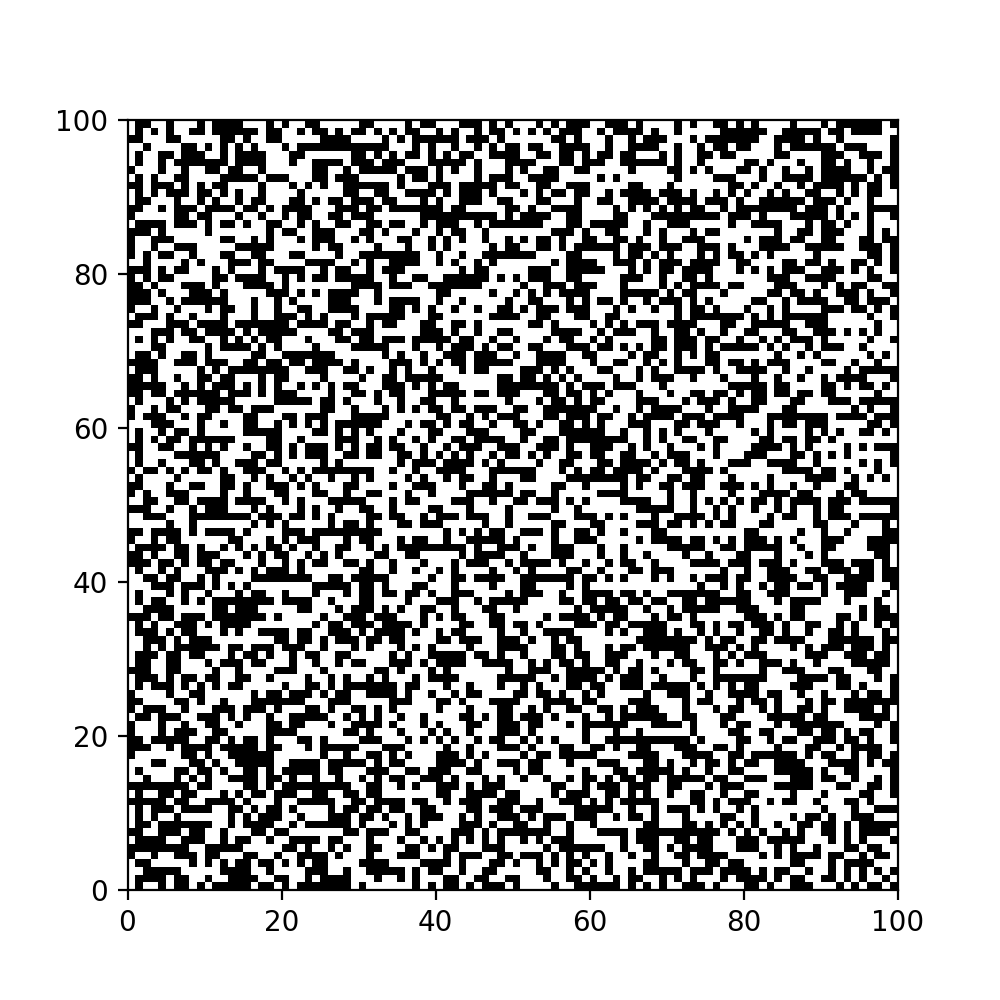
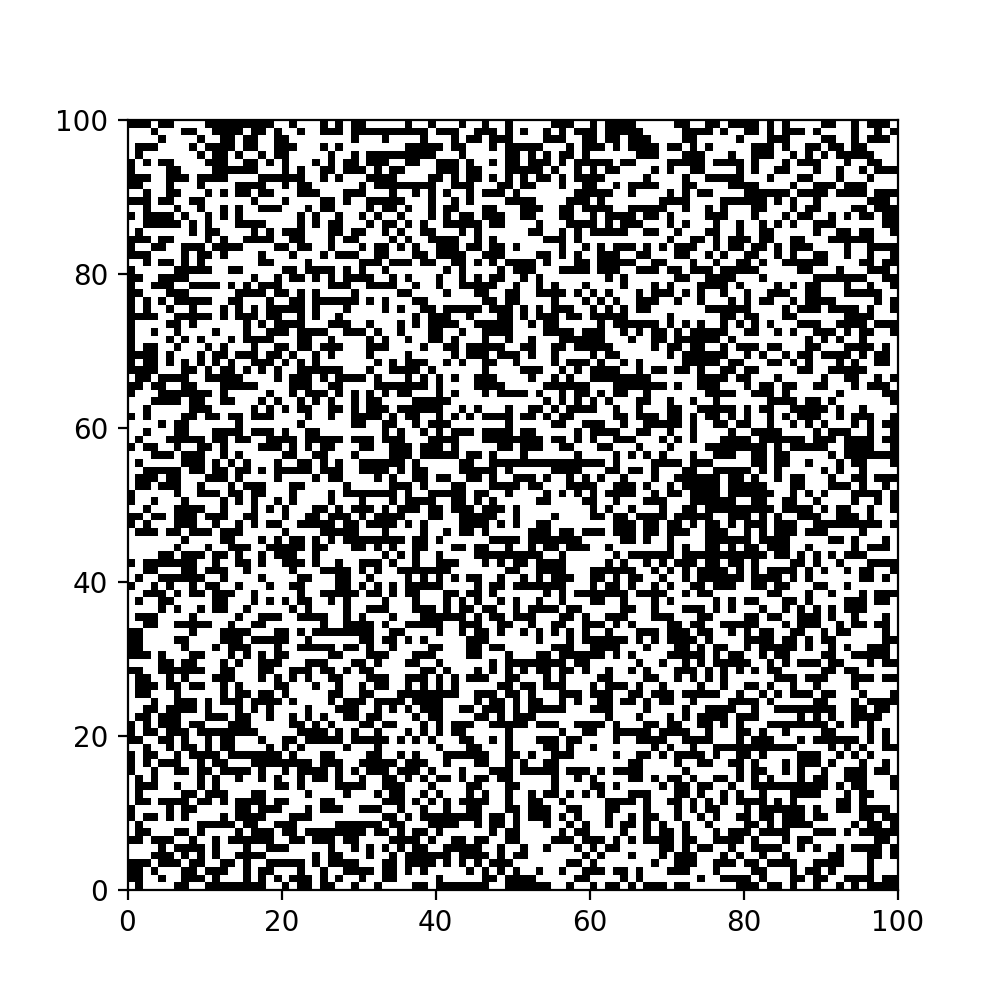
Neue Kommentierung. e ist eingeführt, aber wahrscheinlich nicht richtig

Changed region(s): [[0.124, 0.124, 0.899, 0.899]]

diff --git a/Zweites/MakeGitter.py b/Zweites/MakeGitter.py
@@ -2,29 +2,30 @@ import numpy as np
 import matplotlib.pyplot as plt
 import matplotlib.colors as c
 
-# Returns randomly -1 or 1.
 def charge():
+    """Returns randomly -1 or 1."""
     return np.random.choice([-1, 1])
 
-# Fills the array randomly with -1 and 1.
 def setAllCharges(my_arr):
+    """Fills the array randomly with -1 and 1."""
     for i in range(len(my_arr)):
         for j in range(len(my_arr[0])):
             my_arr[i][j] = charge()
 
-# First version of getGitter
 def getGitterV1(n):
+    """First version of getGitter"""
     x = np.zeros((n, n))
     setAllCharges(x)
     return x
 
-# Returns an array with the dimension n*n randomly filled with -1 or 1.
-# second version. much faster
+
 def getGitterV2(n):
+    """Returns an array with the dimension n*n randomly filled with -1 or 1.
+    second version. much faster"""
     return np.random.choice([-1, 1], (n, n))
 
-# Plots an array as bunch of small squares.
 def plot(my_arr, n):
+    """Plots an array as bunch of small squares."""
     # Does fancy stuff. (creating subplot)
     fig = plt.figure(figsize=(5,5))
     ax = fig.add_subplot(111, aspect='equal')
@@ -36,6 +37,7 @@ def plot(my_arr, n):
     plt.show()
 
 def saveIMG(my_arr, n, string):
+    """Saves Array visualized as image."""
     # Does fancy stuff. (creating subplot)
     fig = plt.figure(figsize=(5,5))
     ax = fig.add_subplot(111, aspect='equal')
@@ -50,5 +52,6 @@ def saveIMG(my_arr, n, string):
     fig.savefig(string, dpi=200)
 
 def saveFile(my_arr, string):
+    """Saves Array as text file."""
     with open(string, 'w') as file:
         file.write(np.array2string(my_arr, threshold=100))

diff --git a/Zweites/DeltaE/V3.py b/Zweites/DeltaE/V3.py
@@ -1,9 +1,17 @@
 import DetermineCharge as DC
 import numpy as np
 import MakeGitter as MG
-import time as t
+import math
+
+"""Definition der Boltzmann-Konstanten"""
+kBoltzmann = 1.380649e-23
+
+def beta(T):
+    """Berechnet beta."""
+    return 1/(kBoltzmann * T)
 
 def deltaE(conf_alt, altE, pos, charge, n):
+    """Berechnet den Energieunterschied des Systems nach dem Umdrehen eines Spins."""
     n -= 1
 
     neuE = altE
@@ -19,7 +27,8 @@ def deltaE(conf_alt, altE, pos, charge, n):
 
     return neuE - altE
 
-def switchSpin(conf, n, e, r):
+def switchSpin(conf, n, T, r):
+    """ Wählt einen zufälligen Spin aus, wechselt diesen und überprüft, ob dieser Wechsel beibehalten oder rückgängig gemacht wird. """
     altE = DC.getAllCharge(conf, n)
 
     for x in range(r):
@@ -29,12 +38,21 @@ def switchSpin(conf, n, e, r):
         pos = np.random.randint(0, n, size=(2))
 
         dE = deltaE(conf, altE, pos, charge, n)
+        # print("dE(T) = " + str(dE))
+
+        #
         if dE <= 0:
             conf[pos[0]][pos[1]] = charge
-        elif np.random.rand() < e:
+            # print("flipped")
+        elif np.random.rand() < math.exp(-dE):
             conf[pos[0]][pos[1]] = charge
+            # print("beta(T) = " + str(beta(T)))
+            # print("flipped")
         else:
+            # print("beta(T) = " + str(beta(T)))
+            # print("not flipped")
             pass
+        # print("---------------------------")
         altE = altE + dE
 
     return conf

diff --git a/Zweites/main.py b/Zweites/main.py
@@ -2,15 +2,15 @@ import MakeGitter as MG
 import DetermineCharge as DC
 import time
 
-# Es gibt zwei verschiedenen Versionen dieser Datei. V1 und V2. V2 ist schneller.
-# import DeltaEV2 as DeltaE
+"""Es gibt mehrere Versionen dieser Datei. V1, V2 und V3. Die Neueste ist jeweils schneller als die Vorherige."""
 import DeltaE.V3 as DeltaE
+
 import matplotlib.pyplot as plt
 import numpy as np
 
 n = 100
-e = 0.1
-r = 100000
+T = 10
+r = 10000
 
 gitter = MG.getGitterV2(n)
 
@@ -18,7 +18,7 @@ MG.saveIMG(gitter, n, "Zweites/start_Graph")
 
 MG.saveFile(gitter, "Zweites/start_Array")
 
-conf_neu = DeltaE.switchSpin(gitter, n, e, r)
+conf_neu = DeltaE.switchSpin(gitter, n, T, r)
 
 MG.saveIMG(conf_neu, n, "Zweites/end_Graph")
 

diff --git a/Zweites/DetermineCharge.py b/Zweites/DetermineCharge.py
@@ -1,5 +1,5 @@
-# Calculates Charge of s single position.
 def getCharge(my_arr, i, j, n):
+    """Calculates Charge of s single position."""
     charge = my_arr[i][j]
     charge += my_arr[i - 1][j] if i >= 0 else 0
     charge += my_arr[i + 1][j] if i <= (n-1) else 0
@@ -8,8 +8,8 @@ def getCharge(my_arr, i, j, n):
 
     return charge
 
-# Calculates the overall magnetic charge of the whole field.
 def getAllCharge(my_arr, n):
+    """Calculates the overall magnetic charge of the whole field."""
     totalCharge = 0
 
     for i in range(n-1):
